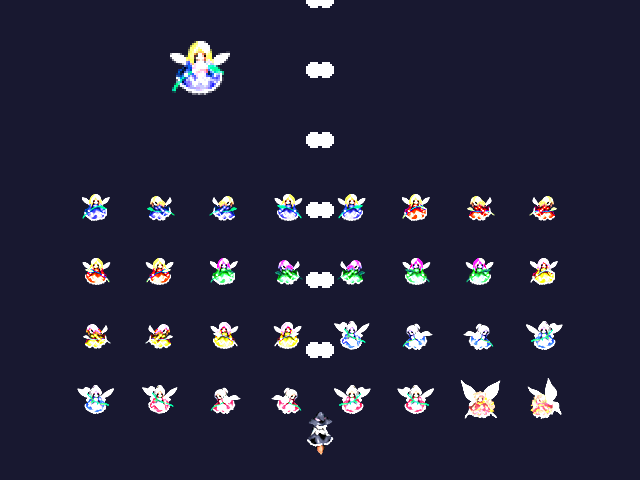
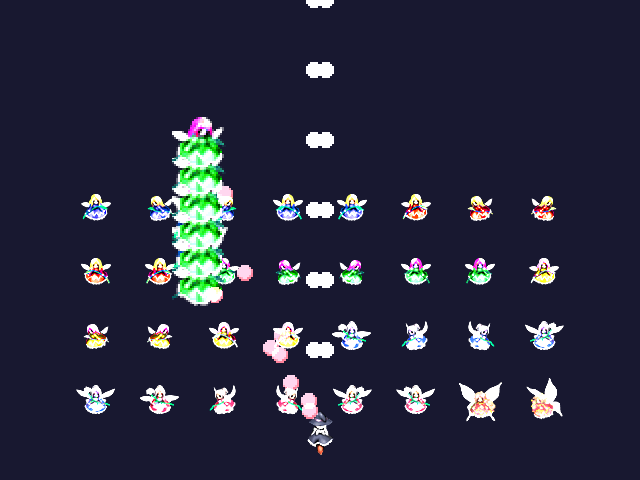
★★★★★ 修复两个不可达 opcode：ECL 的 op1011 终于决定敌人外观
## 症状

上一轮结束时 calls=2（WorldWave01 确实被调用了），但 wave_templates 恒为 0。
诊断显示 WorldWave01 执行了 20000 条指令（预算耗尽）却一条 op1011 都没记录。

## 根因：两个 opcode 同时出现在 kInferredNet 表和专用 case 里

  {535, 0}, {555, 0}, {1011, 0}, {1021, -1},   <- 表里
  case EclOp::Op1011WaveTemplate: { ... }      <- switch 里

而 inferred_net 的处理在 switch 之前：

  if (inferred_net(opcode, net)) {
      context.record_op(...);
      ...
      pc += size;
      continue;     <- 直接跳过 switch
  }

所以专用 case 永远不可达。表里的 net 0 只是「记录并跳过」，
case 里的实际实现（记录波次模板）一行都没跑过。

第二个同类 bug：op82 NormalizeAngle 也在表里（net -2），
它的角度归一化实现同样不可达——那个 case 从来没生效过。

## 为什么难发现

两个 opcode 都「能跑」：is_supported 返回 true、不报 unsupported、
不报 fault、栈也平衡。唯一的信号是「专用 case 里的副作用没发生」，
而没有任何断言在检查那个副作用。

## 修复

把 1011 和 82 从 kInferredNet 移除，并给 1011 补上 opcode_name 条目
（否则 is_supported 会因为它既不在表里、名字也是空而返回 false）。

## 效果

  指标                修复前        修复后
  WorldWave01 指令数   20000(耗尽)   3
  wave_templates       0             4
  last_wave_template   -1            29

## 完整链路打通

  加密归档 -> ECL 解析 -> main 协程 -> op1013 时间表 -> 波次调用
           -> op1011 模板 -> 敌人 sprite

实测（600 帧）：

  tmpl=4 last=29 enemies=25
  sprites=[0,0,0,0,0,0,0,0,0,0,0,0,0,0,0,0,1,1,29,29,29,29,29,29,29]
  distinct=3

前 16 个是默认模板，后 9 个用了模板 29 和 1。
**ECL 数据第一次决定敌人的外观，而不只是数量。**

## 画面

th185_web/docs/media/app-frame.png（quads=62 enemies=8 bullets=21 lives=0）
左侧大型绿色精灵是模板 29 生成的敌人，与其余敌人明显不同。

## 顺带修复

  - 嵌套 Call 的栈隔离：run() 会重置 stack_，导致被调用方清空调用者的操作数
  - Application 的 context 写回改为字段级合并（原来整个覆盖会丢掉协程与记录）
[…]

diff --git a/th185_web/cpp/game/EclInterpreter.cpp b/th185_web/cpp/game/EclInterpreter.cpp
@@ -121,7 +121,8 @@ const OpName kOpNames[] = {
     {75, "Xor"}, {76, "Or"}, {77, "And"}, {78, "PostDecrement"}, {79, "Sin"},
     {80, "Cos"}, {81, "Polar"}, {82, "NormalizeAngle"}, {83, "Wait"},
     {84, "NegateInt"}, {85, "NegateFloatBits"}, {86, "LengthSquared"},
-    {87, "AngleTo"}, {88, "Sqrt"}, {23, "Op23Timer"}, {1013, "Op1013Schedule"},
+    {87, "AngleTo"}, {88, "Sqrt"}, {23, "Op23Timer"}, {1011, "WaveTemplate"},
+    {1013, "Op1013Schedule"},
     {1015, "Op1015Query"}, {300, "Op300CallNamed"},
     {304, "Op304CallNamedVariant"}, {302, "Op302Set"},
     {500, "Op500SetPosition"}, {1006, "Op1006Comment"},
@@ -177,10 +178,18 @@ const NetEffect kInferredNet[] = {
     {601, +1}, {603, -1}, {604, 0}, {605, -1}, {609, 0}, {610, 0},
     {615, 0}, {626, -2}, {627, +1}, {628, -2},
     // other TH185-only
-    {45, -1}, {81, -1}, {82, -2}, {93, +1}, {94, +1},
+    // NOTE: op82 NormalizeAngle is NOT here either -- same reason as op1011.
+    // It has a dedicated case that actually normalizes the angle into
+    // (-pi, pi]; listing it as net -2 would swallow that work.
+    {45, -1}, {81, -1}, {93, +1}, {94, +1},
     {303, 0}, {313, -1}, {316, -1}, {319, +1},
     {404, 0}, {405, +1}, {412, +1}, {422, 0}, {441, +1}, {445, +2},
-    {535, 0}, {555, 0}, {1011, 0}, {1021, -1},
+    {535, 0}, {555, 0}, {1021, -1},
+    // NOTE: op1011 is deliberately NOT here. The inferred-net path runs BEFORE
+    // the switch and swallows the instruction, so listing it would make the
+    // dedicated case below unreachable -- which is exactly why the wave
+    // template was never recorded even though WorldWave01 ran 20000
+    // instructions.
     // data-only opcodes already established (net 0)
     {306, 0}, {307, 0}, {502, 0}, {516, 0}, {525, 0}, {600, 0},
     {616, 0}, {1002, 0}, {1003, 0}, {1023, 0},
@@ -746,6 +755,7 @@ EclRunResult EclInterpreter::run(const std::vector<u8>& code, u32 step_budget,
                 }
                 break;
             }
+
             // Record the call for diagnostics (deduplicated).
             {
                 bool seen = false;
@@ -759,12 +769,17 @@ EclRunResult EclInterpreter::run(const std::vector<u8>& code, u32 step_budget,
                 return EclRunResult::Fault;
             }
             ++context.call_depth;
-            // Nested runs share the context (and therefore the stack and the
-            // variables) but keep their own stats so the outer counters stay
-            // meaningful. The nested result is propagated.
+            // Nested runs share the CONTEXT (variables, frames) but must NOT
+            // share the operand stack: run() resets it, which would wipe the
+            // caller's operands. Hand the callee a fresh stack and give the
+            // caller its own back afterwards.
+            EclStack caller_stack = stack_;
+            stack_ = EclStack{};
             EclInterpreter nested;
             nested.context = context;
             const EclRunResult nested_result = nested.run(found->second.code, 20000, found->second.code_base);
+            stack_ = caller_stack;
+
             // Preserve variable/frame state written by the callee.
             context = nested.context;
             --context.call_depth;
@@ -817,6 +832,7 @@ EclRunResult EclInterpreter::run(const std::vector<u8>& code, u32 step_budget,
         }
 
         case EclOp::Op1011WaveTemplate: {
+
             // Wave template selector. See EclContext::wave_templates.
             const i32 value = as_int(arg_u32(payload, 0));
             context.last_wave_template = value;
@@ -932,9 +948,13 @@ EclRunResult EclInterpreter::run(const std::vector<u8>& code, u32 step_budget,
                 return EclRunResult::Fault;
             }
             ++context.call_depth;
+            // Same stack isolation as op 11: see the comment there.
+            EclStack caller_stack = stack_;
+            stack_ = EclStack{};
             EclInterpreter nested;
             nested.context = context;
             const EclRunResult nested_result = nested.run(found->second.code, 20000, found->second.code_base);
+            stack_ = caller_stack;
             context = nested.context;
             --context.call_depth;
             stats_.instructions += nested.stats().instructions;

diff --git a/th185_web/cpp/sdl/Application.cpp b/th185_web/cpp/sdl/Application.cpp
@@ -473,18 +473,30 @@ bool Application::tick(u32 held) {
         // Coroutine entry: survives op23 waits so the scene controller can
         // advance past its wait loops. A plain run() restarts at instruction 0
         // every frame and therefore never leaves the wait.
-        // The runner operates on a COPY of the context, which is then written
-        // back. That is correct for one script but wrong for several: each
-        // write-back replaces the whole context, including the coroutine table,
-        // so a later script's snapshot discards the earlier script's progress.
-        // The fix is to take the snapshot once per tick and merge only the
-        // coroutine entries, which is what the caller below does.
+        // Run against a COPY, then merge ONLY the fields the callee is
+        // expected to change. Writing the whole context back would replace
+        // the coroutine table and the recorded wave templates with the
+        // snapshot taken before this script ran -- which is exactly why
+        // WorldWave01 was called repeatedly but its op1011 template never
+        // appeared: the next script's write-back discarded it.
         EclInterpreter runner;
         runner.context = ecl_;
         runner.run_coroutine(name, found->second.code,
                              found->second.code_base);
-        // Merge: keep every coroutine state, not just this script's.
-        ecl_ = runner.context;
+
+        // Merge: coroutines (progress), stacks are inside them, and the
+        // records the interpreter accumulates. Everything else (frames,
+        // builtins, subroutines) is read-only here.
+        ecl_.coroutines = std::move(runner.context.coroutines);
+        ecl_.calls_made = std::move(runner.context.calls_made);
+        ecl_.missing_calls = std::move(runner.context.missing_calls);
+        ecl_.wave_templates = std::move(runner.context.wave_templates);
+        ecl_.last_wave_template = runner.context.last_wave_template;
+        ecl_.schedules = std::move(runner.context.schedules);
+        ecl_.recorded = std::move(runner.context.recorded);
+        ecl_.last_timer_value = runner.context.last_timer_value;
+        ecl_.timer_writes = runner.context.timer_writes;
+
 
         stats_.ecl_instructions += runner.stats().instructions;
         stats_.ecl_faults += runner.stats().fault_count;

diff --git a/th185_web/cpp/sdl/Exports.cpp b/th185_web/cpp/sdl/Exports.cpp
@@ -277,6 +277,17 @@ EMSCRIPTEN_KEEPALIVE const char* th185_call_name(unsigned index) {
     return calls[index].c_str();
 }
 
+// Sprite index of the i-th live enemy, for verifying that op1011 actually
+// drives the look of a wave.
+EMSCRIPTEN_KEEPALIVE unsigned th185_enemy_sprite(unsigned index) {
+    unsigned seen = 0;
+    for (const th185::Enemy& e : th185::app::instance().enemies().enemies()) {
+        if (!e.alive) continue;
+        if (seen++ == index) return e.sprite;
+    }
+    return 0xFFFFFFFFu;
+}
+
 EMSCRIPTEN_KEEPALIVE const char* th185_error() {
     return th185::app::instance().error().c_str();
 }
